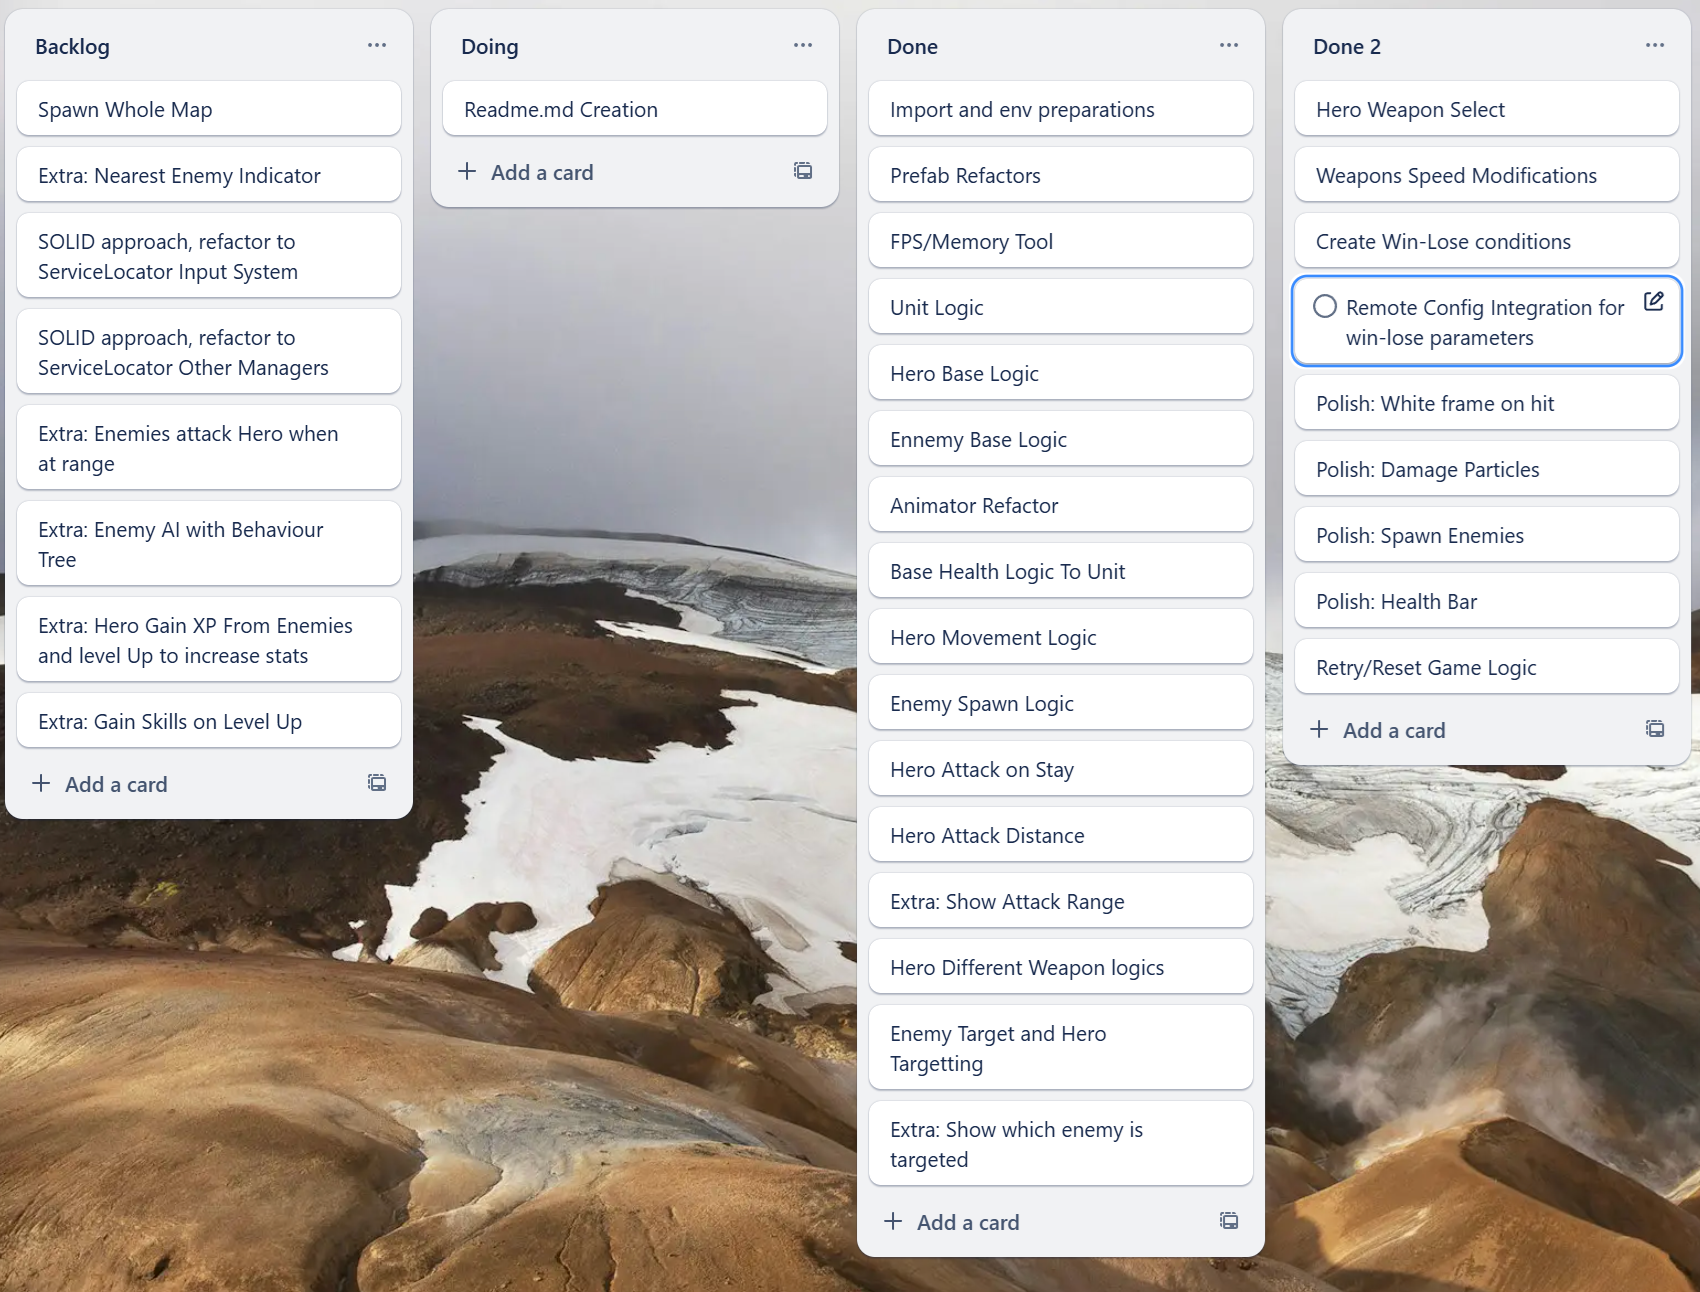
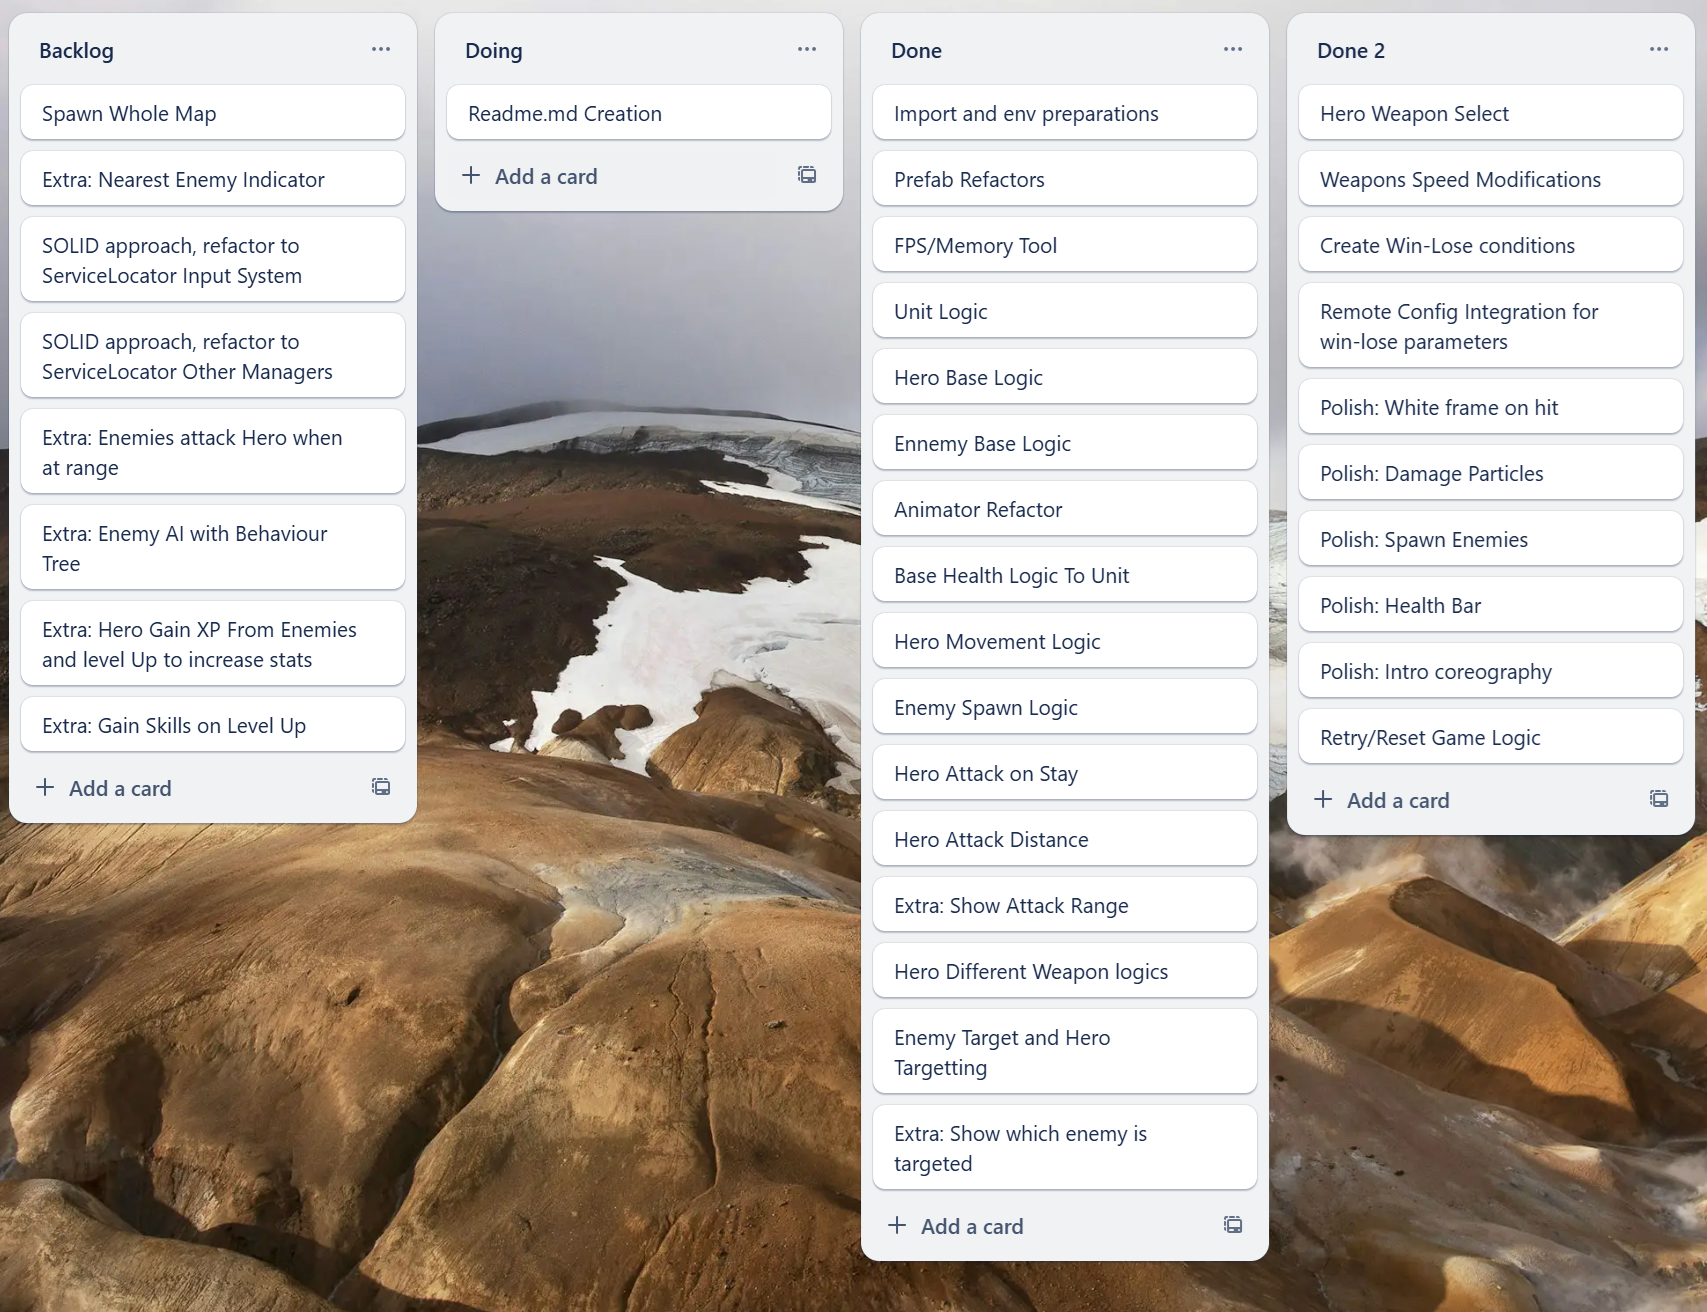
Missing task integrated in readme

diff --git a/Assets/Scripts/Game/Manager/GameManager.cs b/Assets/Scripts/Game/Manager/GameManager.cs
@@ -12,6 +12,8 @@ namespace Game.Manager
 {
     public class GameManager : MonoBehaviour
     {
+        private const float RESET_LOADING_WAIT_TIME = 2.0f;
+        
         private CountDown _matchCountDown;
         private int _enemiesToKill;
         private int _enemiesKilled;
@@ -81,6 +83,7 @@ namespace Game.Manager
         {
             float fadeInDuration = ScreenFader.Instance.FadeIn(true);
             yield return new WaitForSeconds(fadeInDuration);
+            yield return new WaitForSeconds(RESET_LOADING_WAIT_TIME);
             _matchCountDown.SetTotalTime(_playTime);
             HeroManager.Instance.Restart();
             EnemyManager.Instance.Restart();

diff --git a/Readme.md b/Readme.md
@@ -44,6 +44,7 @@ This phase was around 2h.
     - Enemy count and win condition with UI
     - Time left with lose condition and UI
 - Remote Config integration using Unity Services
+- Intro Choreography with back screen fading in-out effects
 - Retry/Reset Logic with UI.
 
 This whole feature development took around 12h.
